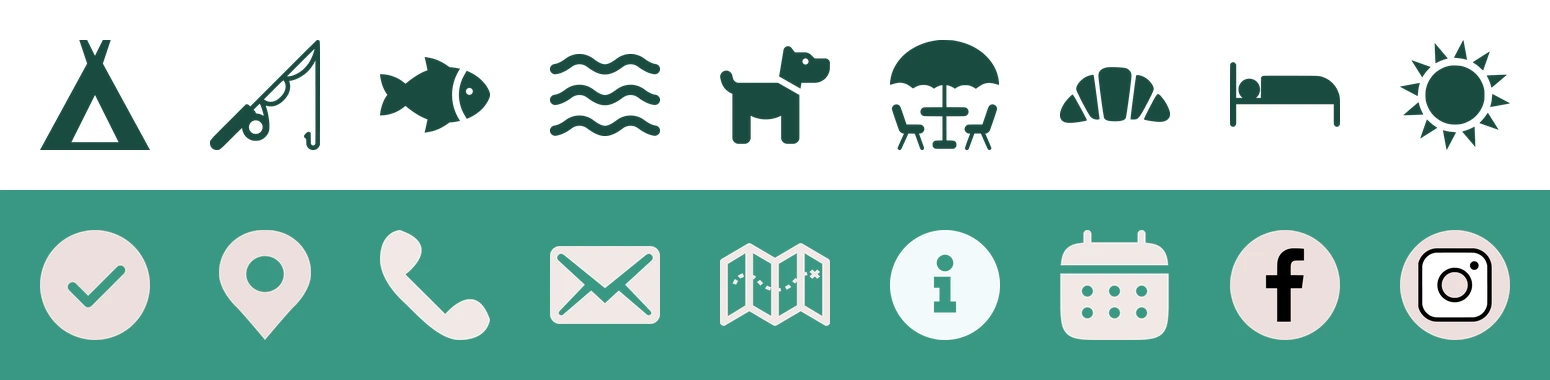
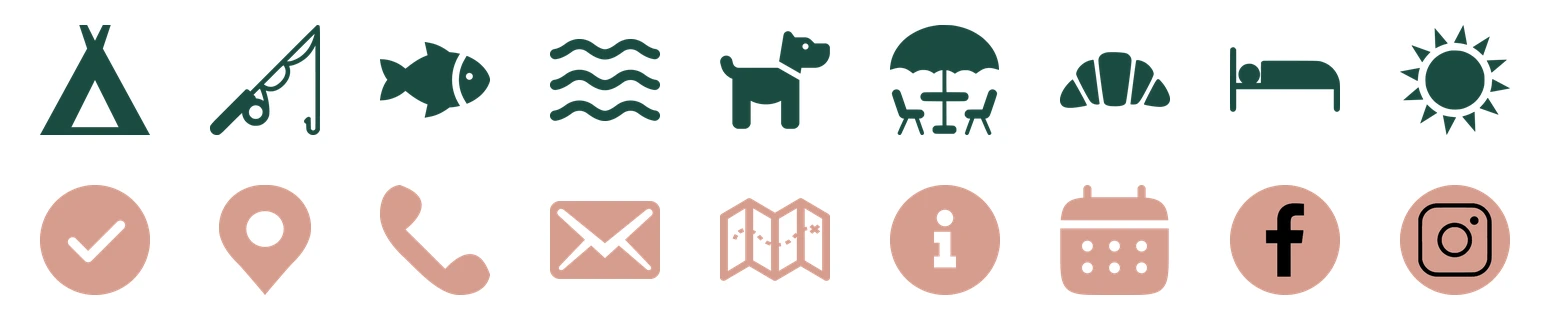
Camping : icônes roses plus foncées, sans fond vert
Claude-Session: https://claude.ai/code/session_01THwdntjNiSuDEHoKbgxniL

diff --git a/projets/camping-minaudieres/index.html b/projets/camping-minaudieres/index.html
@@ -280,7 +280,7 @@
             <p><span class="st-btn-demo" style="background:#c75000">Réservez en ligne</span><span class="st-btn-demo" style="background:#e75e02">Survol</span></p>
           </div>
           <div class="st-card"><p class="st-h3">Logo</p><img src="../../assets/img/camping/logo.webp" alt="Logo Les Petites Minaudières : trois tipis vert, rose poudré et sable, et la mention Camping 3 étoiles proche Futuroscope" width="1400" height="195" loading="lazy" style="width:100%;height:auto;margin-top:8px"></div>
-          <div class="st-card"><p class="st-h3">Icônes</p><img src="../../assets/img/camping/icones.webp" alt="Extrait du jeu d’icônes : en vert sapin, tipi, pêche, poisson, piscine, animaux acceptés, snack, petit-déjeuner, hébergement et soleil ; en rose poudré sur fond vert, validation, adresse, téléphone, email, plan, infos, calendrier, Facebook et Instagram" width="1550" height="380" loading="lazy" style="width:100%;height:auto;margin-top:8px"></div>
+          <div class="st-card"><p class="st-h3">Icônes</p><img src="../../assets/img/camping/icones.webp" alt="Extrait du jeu d’icônes : en vert sapin, tipi, pêche, poisson, piscine, animaux acceptés, snack, petit-déjeuner, hébergement et soleil ; en rose, validation, adresse, téléphone, email, plan, infos, calendrier, Facebook et Instagram" width="1550" height="320" loading="lazy" style="width:100%;height:auto;margin-top:8px"></div>
         </div>
       </div>
     </section>
